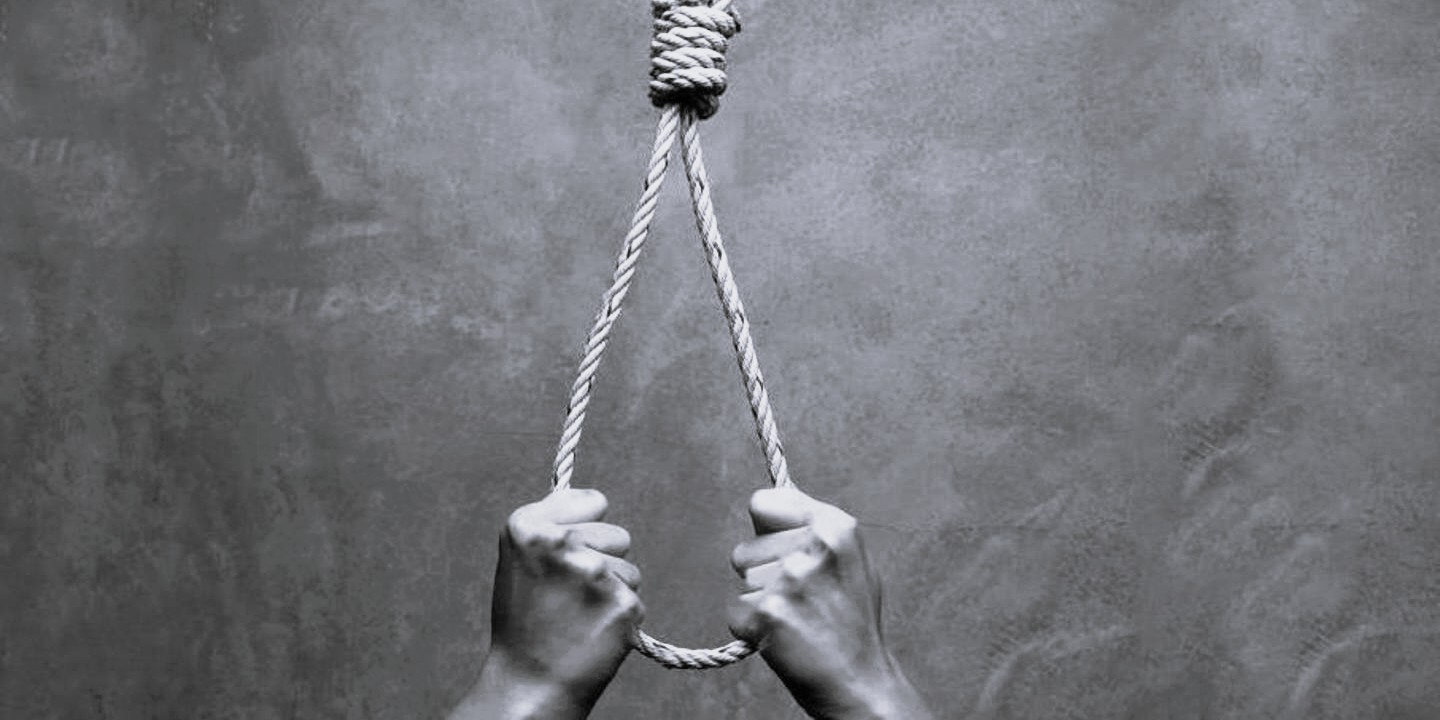
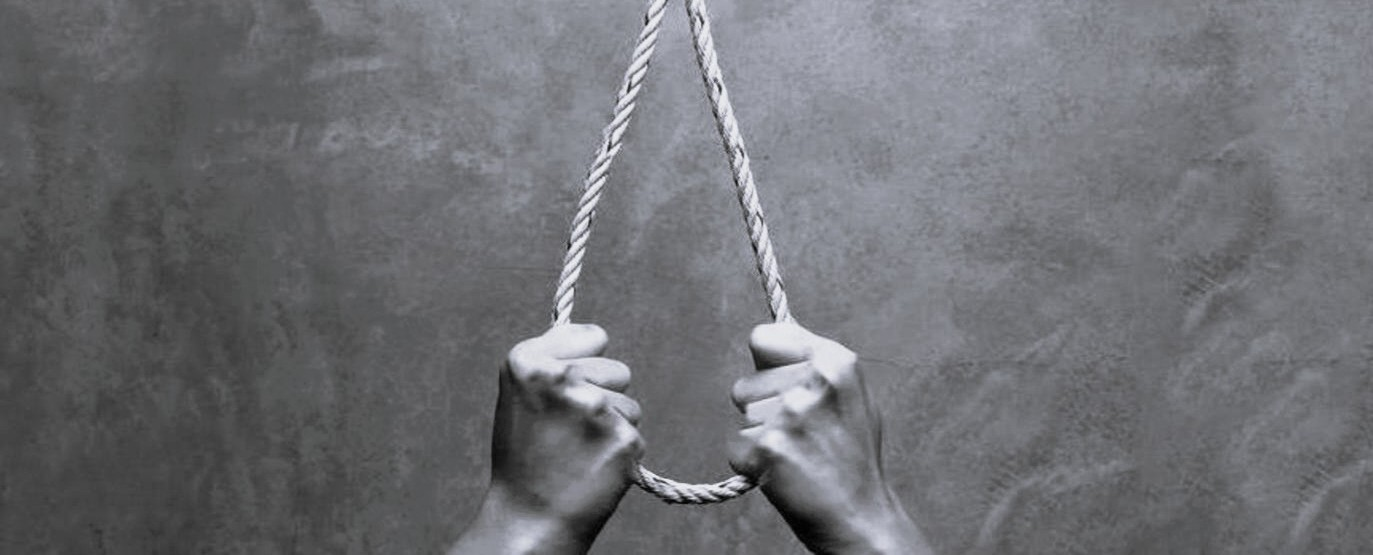
ganti foto thumb

diff --git a/index.html b/index.html
@@ -32,7 +32,7 @@
     }
     .featured-article img {
       object-fit: cover;
-      height: 700px;
+      height: 500px;
       width: 100%;
       border-radius: 0.5rem;
     }
